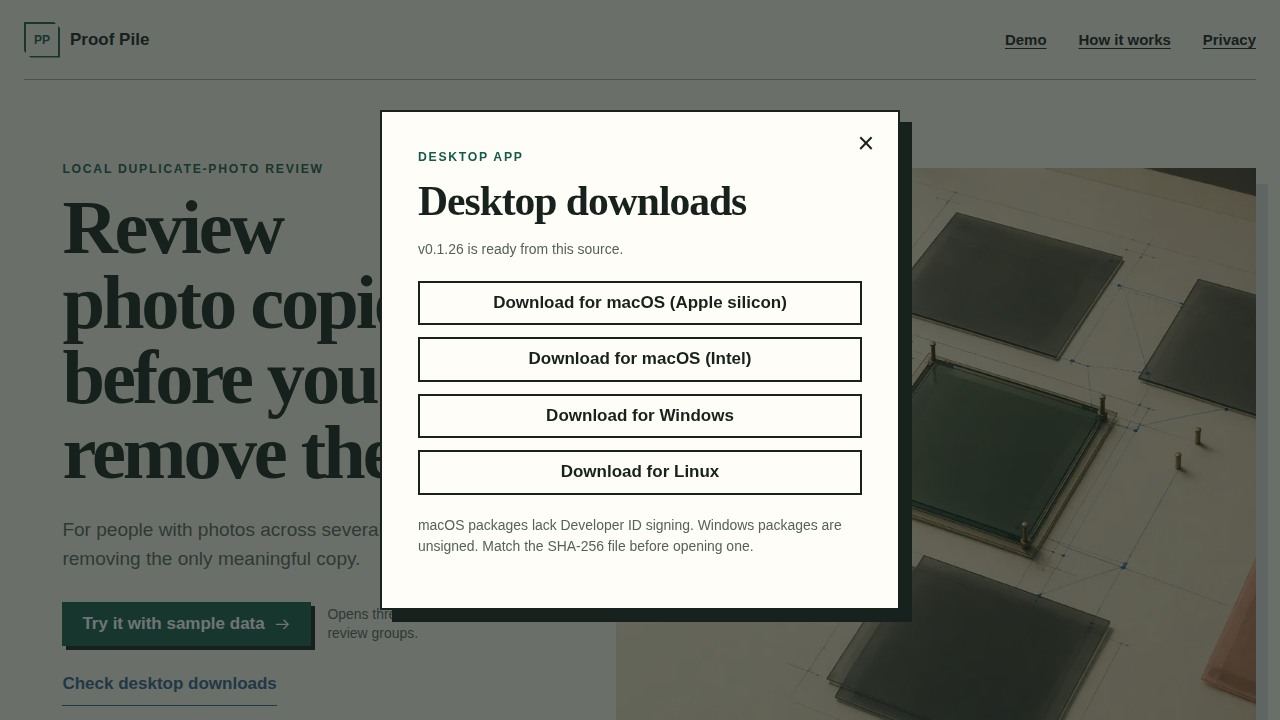
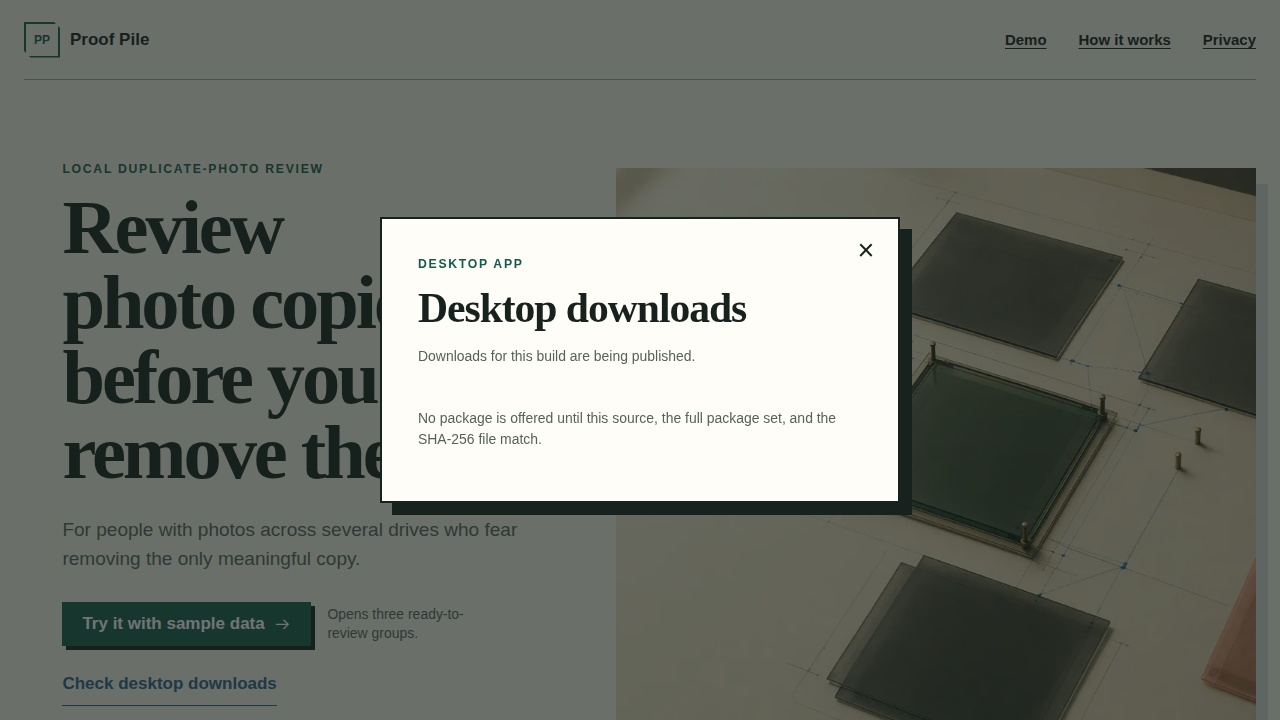
docs: record verification 22 failure

diff --git a/.factory/verification-22.md b/.factory/verification-22.md
@@ -1,0 +1,125 @@
+# Independent product verification 22 — FAIL
+
+- Date: 2 September 2026 (UTC)
+- Work order: `photo-proof-pile-verify-22`
+- Candidate: `fe01d819990d8cab9e2aba148b388c214b8c84dd`
+- Live URL: <https://photo-proof-pile.sociobot.in>
+- Demo URL: <https://photo-proof-pile.sociobot.in/demo>
+
+## Decision
+
+**FAIL.** The checked candidate's web build, demo, privacy behavior, quality
+gates, accessibility, and 25 registered claim tests pass. The candidate is a
+desktop product, however, and no downloadable package is built from this
+candidate. The public `v0.1.26` release targets the earlier
+`11b315afb2a454b8618659fd648a6e8e1e069ce8`; the deployed candidate identifies
+itself as `fe01d819…` and correctly suppresses every package link. This fails
+the required desktop release/installability contract.
+
+No product source, deployment, resources, or secrets were changed during this
+verification.
+
+## Release-blocking finding
+
+### Severity 1 — no installable desktop release for the candidate
+
+Fresh live evidence:
+
+- the footer on `/` reports source commit
+  `fe01d819990d8cab9e2aba148b388c214b8c84dd`;
+- a clean production build of that candidate matched all 27 deployed static
+  files byte-for-byte;
+- GitHub's public `releases/latest` API reports `v0.1.26` with
+  `target_commitish` `11b315afb2a454b8618659fd648a6e8e1e069ce8` and does list
+  the macOS, Windows, and Linux assets plus `SHA256SUMS` and `latest.json`;
+- on the actual deployed candidate, **Check desktop downloads** says
+  “Downloads for this build are being published” and exposes zero
+  `Download for …` links.
+
+The product's identity gate is doing the safe thing, but the candidate does
+not meet the desktop-app definition of done until the exact source is tagged,
+the cross-platform packages and checksums are published from that tag, and the
+site resolves that matching release.
+
+Required resolution: create a new version/tag at
+`fe01d819990d8cab9e2aba148b388c214b8c84dd` (or a successor), run the release
+matrix, publish the complete package set with `SHA256SUMS` and `latest.json`,
+then deploy the same commit and verify that the live dialog offers real links.
+
+## Mandatory first-read and demo gate — PASS
+
+A fresh service-worker-blocked 1440 × 900 browser context at `/` showed:
+
+- what it does: “Review photo copies before you remove them”;
+- who it is for: people with photos across several drives who fear removing
+  their only meaningful copy; and
+- what to do first: **Try it with sample data**, with “Opens three
+  ready-to-review groups.” alongside it.
+
+The one-click action opened `/demo` with the persistent “Demo — sample data,
+nothing is saved” banner, three groups, and eight files. The live flow marked
+two extras, showed the exact quarantine destination in confirmation, exported
+the nine-line CSV (header plus eight records), preserved the recovery record
+through reload, opened Restore with focus on Cancel, and let Escape dismiss it.
+
+## Claims gate — PASS (25/25)
+
+After `npm ci`, every exact command in `.factory/claims.json` was run
+separately through its shipped demo/native entry point and returned zero.
+Individual command output is retained under
+`.factory/verification-22-artifacts/claims/`.
+
+| Claims | Result |
+| --- | --- |
+| `demo-isolated`, `match-evidence`, `csv-export`, `reversible-plan`, `review-before-move` | PASS |
+| `local-privacy`, `no-ad-tracking`, `native-local-privacy`, `license-request-privacy`, `no-account` | PASS |
+| `free-scan-limit`, `free-safety-tools`, `paid-license`, `license-verification-allowance`, `paid-checkout` | PASS |
+| `licensed-scan-limit`, `offline-reload`, `native-matching`, `scan-scope`, `cross-drive-safety` | PASS |
+| `installer-checksum`, `windows-installer-checksum`, `desktop-release-assets`, `desktop-release-identity`, `unsigned-package-state` | PASS |
+
+These are valid sandbox tests; in particular, `desktop-release-identity`
+passes its mocked fixture. It does not overcome the live release mismatch
+above.
+
+## Clean local verification — PASS
+
+- `npm ci`: completed with 0 reported vulnerabilities.
+- `npm test`: Rust 11/11, Vitest 15/15, and Playwright 36/36 passed.
+- `npm run check`: TypeScript, rustfmt, and Clippy with warnings denied passed.
+- `npm run build`: completed and produced `dist/site`.
+- Candidate build versus production: 27/27 static files byte-identical.
+- Initial bundle: JavaScript 40,588 bytes raw / 14,015 bytes gzip; CSS
+  18,640 bytes raw / 5,104 bytes gzip; hero image 29,922 bytes.
+
+## Live product QA — PASS except release availability
+
+- Browser console and page errors: none on the tested landing, demo, policy,
+  terms, mobile, PWA, and release-dialog flows.
+- Privacy request log: the complete live demo review made no off-origin
+  requests. Cold landing requests were self-hosted assets only. The declared
+  license verification privacy test passed.
+- Actual license endpoint allowance: requests 1–30 from one client received
+  HTTP 200; request 31 received HTTP 429 with `Retry-After: 3` and the exact
+  product origin in `Access-Control-Allow-Origin`.
+- Axe serious/critical: 0 findings on `/`, `/demo`, `/privacy`, and `/terms`
+  in both light and dark color schemes.
+- 390 px mobile: `/`, `/demo`, `/app`, `/privacy`, `/terms`, and a real 404
+  had no horizontal overflow at normal or 200% text; every visible actionable
+  target was at least 44 px. The source link was 84.75 × 44 px.
+- Keyboard/recovery: visible 3 px focus outline, Arrow group traversal,
+  dialog Cancel focus, and Escape dismissal passed. Reduced motion measured
+  `0.00001s` transition duration.
+- PWA: `proof-pile-v22` controlled `/demo`, had no waiting worker after
+  update, and an offline reload returned 200 with all three groups.
+- Response/security: root and service worker revalidate at 30 seconds;
+  hashed JS is immutable for one year. CSP is response-header delivered with
+  `frame-ancestors 'none'`; HSTS, `nosniff`, strict referrer policy, and the
+  camera/microphone/geolocation permissions policy are present. The unknown
+  route returned HTTP 404.
+
+## Handoff
+
+The one defect is Severity 1 and release-blocking. All evidence besides the
+new report is either command output above or the refreshed current-browser
+records in `.factory/repair-15-artifacts/live-qa.json` and
+`.factory/repair-15-artifacts/deployment-parity.json`.

diff --git a/.factory/handoff.md b/.factory/handoff.md
@@ -2,9 +2,13 @@
 
 ## Outcome
 
-**PASS.** The controller's 15px phone-link failure was reproduced before the
-repair, fixed at its CSS root cause, covered by a named regression, released,
-and deployed.
+**FAIL for candidate `fe01d819990d8cab9e2aba148b388c214b8c84dd`.** Independent
+verification 22 found that the deployed web build is this candidate, but the
+only public desktop release (`v0.1.26`) targets the earlier
+`11b315afb2a454b8618659fd648a6e8e1e069ce8`. The site therefore correctly
+offers no package links for the candidate. This is a Severity 1 desktop
+release/installability blocker. See `.factory/verification-22.md` for the
+complete fresh evidence; no product code was changed by verification.
 
 - Repair source: `11b315afb2a454b8618659fd648a6e8e1e069ce8`
 - Immutable desktop release: [v0.1.26](https://github.com/B-Divyesh/sf-photo-proof-pile/releases/tag/v0.1.26)
